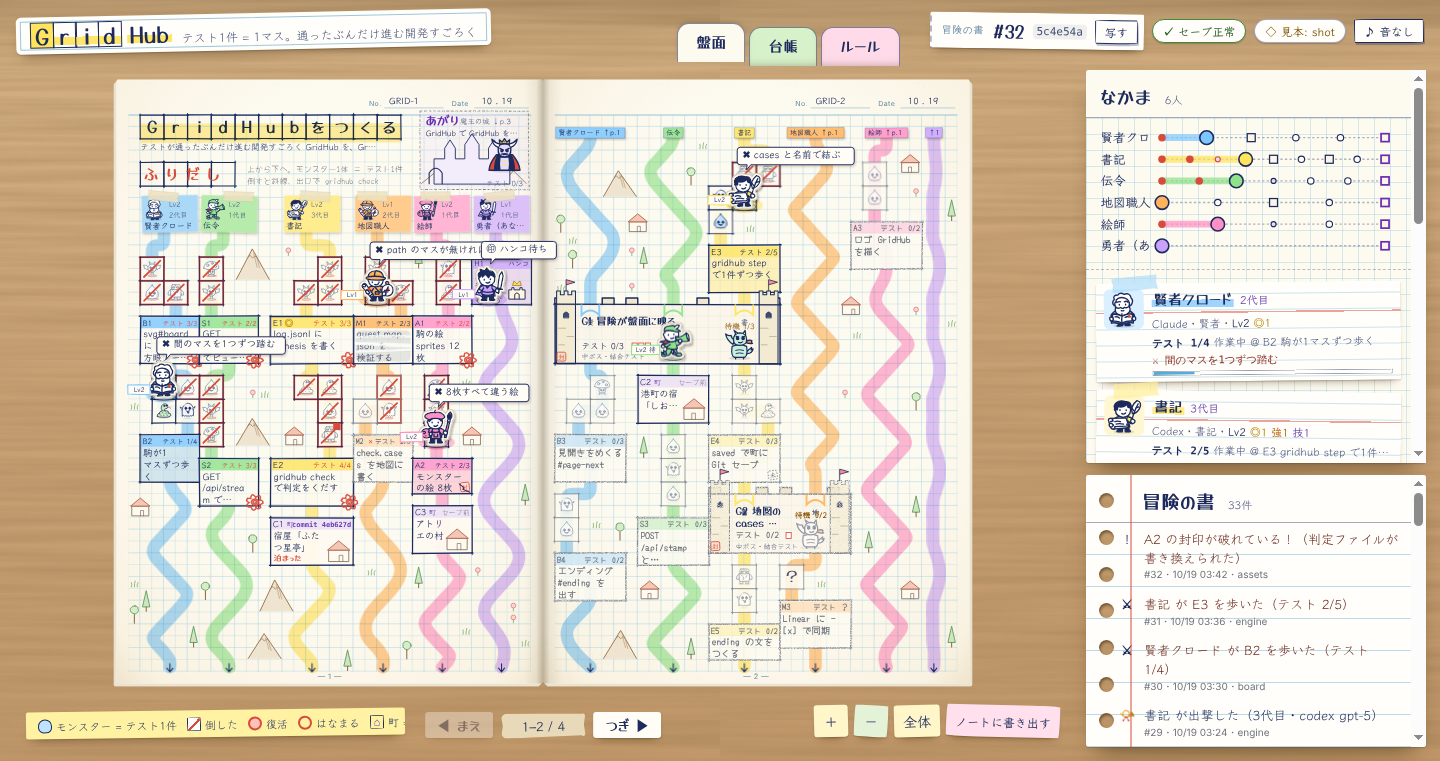
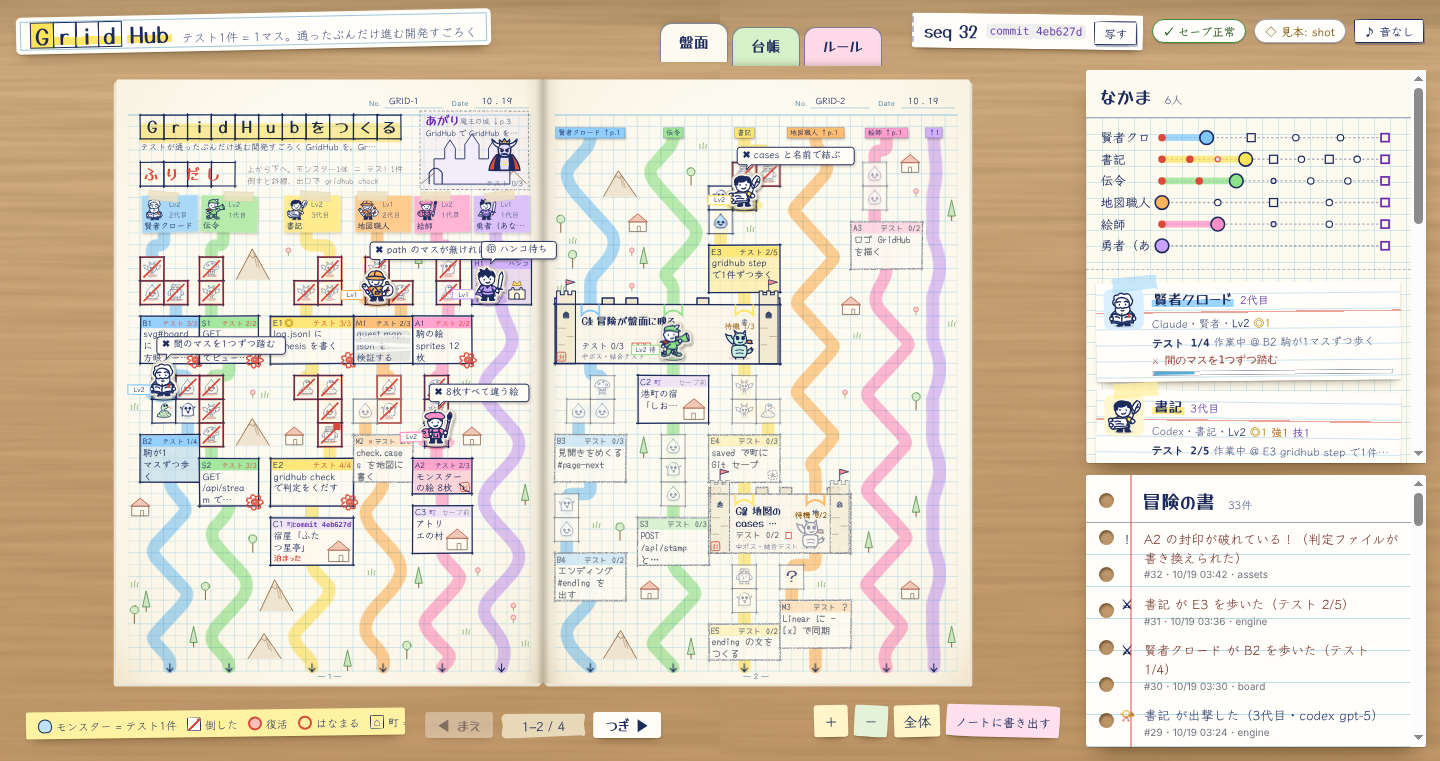
見出しは seq と最新のセーブのコミット（ふっかつのじゅもんは見せない）・統合 a6d95c1 を取り込む・写真を撮り直す
#jumon は G1 など既存の判定と §50.13 の互換のため、見えないまま残す。

Claude-Session: https://claude.ai/code/session_01S4VkAJvskU8FCz3obkiQfZ

Changed region(s): [[0.4375, 0.0, 0.8125, 0.0907]]

diff --git a/web/board/board.css b/web/board/board.css
@@ -46,7 +46,7 @@ body {
 button { font: inherit; color: inherit; }
 code { font-family: var(--mono); font-size: 0.92em; background: rgba(29, 43, 92, 0.07); padding: 1px 4px; border-radius: 4px; word-break: break-all; }
 
-/* ---------- 机の奥（ヘッダー）: ラベルのシール・インデックスタブ・じゅもんの紙片 ---------- */
+/* ---------- 机の奥（ヘッダー）: ラベルのシール・インデックスタブ・記録の紙片 ---------- */
 .cover {
   height: var(--head-h);
   display: flex;
@@ -95,7 +95,7 @@ code { font-family: var(--mono); font-size: 0.92em; background: rgba(29, 43, 92,
 .tabs button:hover { transform: translateY(1px); }
 .tabs button:focus-visible, .mini-btn:focus-visible, .zoom button:focus-visible, .party-card:focus-visible, .act:focus-visible { outline: 2.5px solid var(--ink); outline-offset: 2px; }
 .save { display: flex; align-items: center; gap: 8px; margin-left: 12px; white-space: nowrap; }
-.jumon-box {
+.record-box {
   display: flex; align-items: center; gap: 8px;
   background: var(--card);
   border-left: 2px dashed rgba(29, 43, 92, 0.35);
@@ -105,8 +105,6 @@ code { font-family: var(--mono); font-size: 0.92em; background: rgba(29, 43, 92,
   box-shadow: 0 1px 0 rgba(60, 40, 10, 0.18), 0 6px 10px -6px rgba(50, 30, 5, 0.55);
   transform: rotate(0.8deg);
 }
-.jumon-label { font-family: var(--ui); font-size: 9.5px; color: #5f86a0; letter-spacing: 1px; }
-.jumon { font-size: 15px; letter-spacing: 1.5px; color: var(--ink); font-weight: 600; min-width: 13em; }
 .mini-btn {
   background: var(--card);
   border: 1.4px solid var(--ink);
@@ -740,14 +738,12 @@ body.in-lobby #curse { display: none; }
 @media (max-width: 1100px) {
   :root { --side-w: 270px; }
   .tagline { display: none; }
-  .jumon { min-width: 0; }
 }
 @media (max-width: 860px) {
   body { overflow: auto; }
   .cover { height: auto; flex-wrap: wrap; padding: 10px 16px 0; gap: 8px; }
   .tabs { margin-left: 0; order: 3; width: 100%; }
   .save { margin-left: auto; flex-wrap: wrap; }
-  .jumon-label { display: none; }
   .desk { display: flex; flex-direction: column; height: auto; padding: 0 16px 16px; }
   #rail { display: contents; }
   #party { order: 1; max-height: none; }
@@ -861,7 +857,7 @@ body.in-lobby #curse { display: none; }
 .sortie-row small { color: var(--pencil-ink); }
 /* 入口にいる間は、冒険の書にまつわる飾りを隠し、入口だけを大きく見せる */
 body.in-lobby .desk { grid-template-columns: minmax(0, 1fr); }
-body.in-lobby #party, body.in-lobby #side, body.in-lobby #integrity, body.in-lobby .jumon-box, body.in-lobby .legend, body.in-lobby .zoom { display: none; }
+body.in-lobby #party, body.in-lobby #side, body.in-lobby #integrity, body.in-lobby .record-box, body.in-lobby .legend, body.in-lobby .zoom { display: none; }
 body.in-lobby #stage { min-height: 70vh; }
 
 #export-notebook { font-size: 12px; }
@@ -1002,5 +998,5 @@ body.in-lobby #stage { min-height: 70vh; }
   #export-notebook { display: none; }
 }
 
-.head-seq { font-family: var(--marker); font-size: 18px; color: var(--ink); }
-.head-hash { font-size: 11px; color: var(--ink-soft); }
+.head-seq { font-family: var(--marker); font-size: 17px; color: var(--ink); }
+.head-commit { font-size: 11px; color: #6a3fb0; }

diff --git a/web/board/app.js b/web/board/app.js
@@ -190,11 +190,14 @@ function render(input) {
   setLayer('#bestiary', renderBestiary(view, state.monsters));
   setLayer('#log', renderLog(view, prev ? seqOf(prev) : -1));
   setLayer('#ledger', renderLedger(view, state.sprites));
-  // 盤面には記録の番号とハッシュを見せる（#jumon は互換のために隠して残す。§50.13）
+  // 見出しには記録の番号（seq）と最新のセーブのコミットを見せる。ふっかつのじゅもんは見せない（ユーザーの判断）。
+  // #jumon は既存の判定（G1 など）と §50.13 の互換のため、見えないまま残す
   $('#jumon').textContent = view.head?.jumon || '—';
   $('#jumon').dataset.seq = view.head?.seq ?? '';
-  $('#head-seq').textContent = view.head ? `#${view.head.seq}` : '#—';
-  $('#head-hash').textContent = view.head?.hash ? String(view.head.hash).slice(0, 7) : '';
+  $('#head-seq').textContent = view.head ? `seq ${view.head.seq}` : 'seq —';
+  const save = latestSave(view);
+  $('#head-commit').hidden = !save;
+  $('#head-commit').textContent = save ? `commit ${String(save.commit).slice(0, 7)}` : '';
   const ok = view.integrity?.ok !== false && !!view.head && !!view.quest;
   const integ = $('#integrity');
   integ.dataset.ok = String(ok);
@@ -212,6 +215,16 @@ function render(input) {
   window.__masume.view = view;
   window.__masume.pages = lay.pages.length;
   window.__masume.spread = book.left + 1;
+}
+
+/** 最新のセーブ（キャラクターと町・ゲートの save のうち seq がいちばん大きいもの） */
+function latestSave(view) {
+  let best = null;
+  for (const x of [...view.characters, ...Object.values(view.nodes)]) {
+    const s = x?.save;
+    if (s && s.commit && (!best || (s.seq ?? -1) > (best.seq ?? -1))) best = s;
+  }
+  return best;
 }
 
 /** 駒が今の見開きの外のページへ進んだら、歩き終わったあとで、そのページの見開きへめくる（§50.8） */
@@ -536,7 +549,8 @@ function setupInteractions() {
     }
     if (t.matches('#copy-jumon')) {
       const h = state.view?.head;
-      const text = h ? `seq ${h.seq} ${String(h.hash || '').slice(0, 12)}（gridhub load ${h.seq}）` : '';
+      const save = state.view ? latestSave(state.view) : null;
+      const text = h ? `seq ${h.seq}${save ? ` commit ${String(save.commit).slice(0, 7)}` : ''}（gridhub load ${h.seq}）` : '';
       try {
         await navigator.clipboard.writeText(text);
         toast({ text: `記録の番号を写しました: ${text}`, ok: null });

diff --git a/web/index.html b/web/index.html
@@ -26,12 +26,11 @@
       <button role="tab" data-view="rules" aria-selected="false">ルール</button>
     </nav>
     <div class="save">
-      <div class="jumon-box" title="冒険の書のいまの記録の番号（seq）とハッシュ。gridhub load &lt;seq&gt; でこの時点に戻せる">
-        <span class="jumon-label">冒険の書</span>
-        <span id="head-seq" class="head-seq">#—</span>
-        <code id="head-hash" class="head-hash"></code>
+      <div class="record-box" title="冒険の書のいまの記録の番号（seq）と、最新のセーブのコミット。gridhub load &lt;seq&gt; でこの時点に戻せる">
+        <span id="head-seq" class="head-seq">seq —</span>
+        <code id="head-commit" class="head-commit" hidden></code>
         <span id="jumon" hidden>—</span>
-        <button id="copy-jumon" class="mini-btn" title="記録の番号とハッシュを写す">写す</button>
+        <button id="copy-jumon" class="mini-btn" title="記録の番号とコミットを写す">写す</button>
       </div>
       <span id="integrity" class="pill" data-ok="true">セーブ正常</span>
       <span id="live" class="pill live" data-mode="off">…</span>
